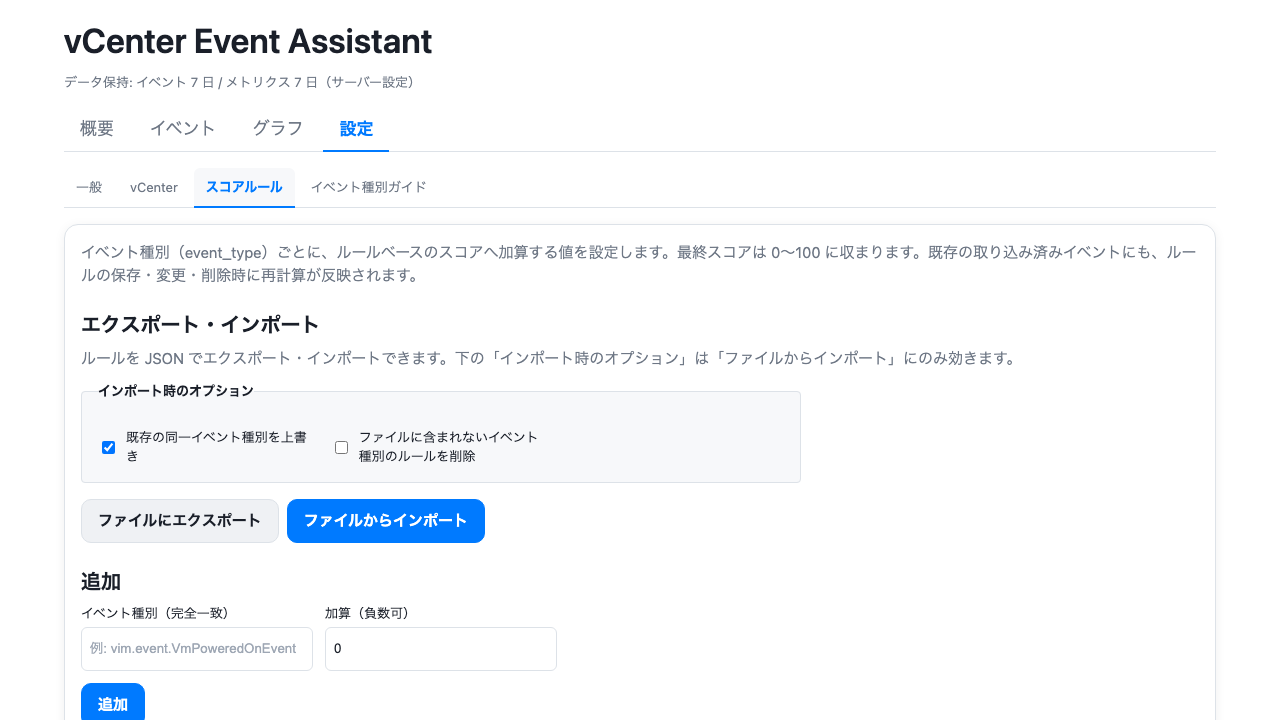
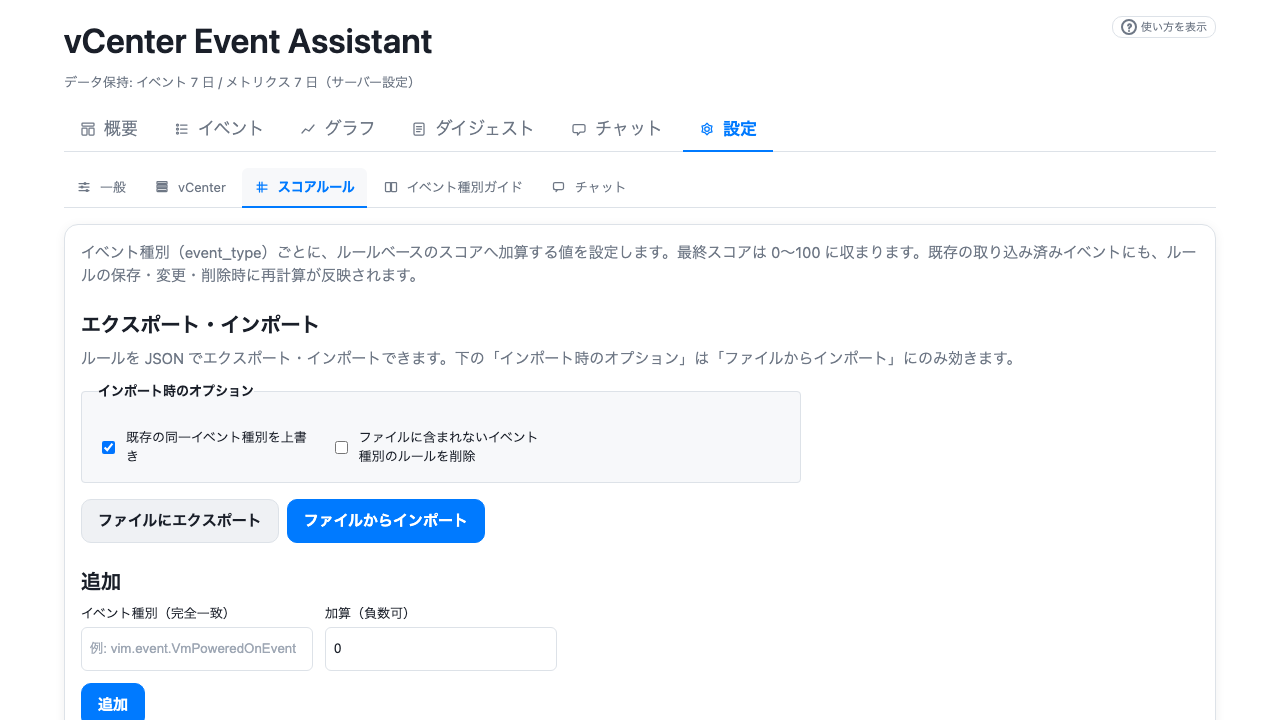
docs: update frontend documentation and refresh project screenshots

diff --git a/frontend/e2e/screenshots.spec.ts b/frontend/e2e/screenshots.spec.ts
@@ -117,4 +117,45 @@ test('主要画面のスクリーンショットを docs/images に保存', asyn
     path: path.join(screenshotOutputDir, 'settings-event-type-guides-list.png'),
     fullPage: false,
   })
+
+  // チャット画面（ダミー履歴を注入）
+  await page.evaluate(() => {
+    const key = 'vea.chat_panel.v1'
+    const dummyData = {
+      messages: [
+        {
+          role: 'user',
+          content: '最近のイベントの傾向を教えてください。',
+          created_at: new Date(Date.now() - 3600000).toISOString(),
+        },
+        {
+          role: 'assistant',
+          content:
+            '過去24時間で、`vim.event.ScreenshotDemoEvent` が 10 件発生しています。主な原因はシステムのメンテナンスによる一時的な負荷上昇です。詳細は「イベント」タブでフィルタリングして確認することをお勧めします。',
+          created_at: new Date(Date.now() - 3590000).toISOString(),
+          latency_ms: 1200,
+          token_per_sec: 45.5,
+        },
+      ],
+      rangeParts: {
+        fromDate: '2026-04-12',
+        fromTime: '07:00',
+        toDate: '2026-04-13',
+        toTime: '07:00',
+      },
+      vcenterId: '',
+      includePeriodMetricsCpu: true,
+      includePeriodMetricsMemory: false,
+      includePeriodMetricsDiskIo: false,
+      includePeriodMetricsNetworkIo: false,
+      draft: '',
+    }
+    localStorage.setItem(key, JSON.stringify(dummyData))
+  })
+  await page.locator('nav.tabs').getByRole('button', { name: 'チャット' }).click()
+  await expect(page.getByText('最近のイベントの傾向を教えてください。')).toBeVisible()
+  await page.screenshot({
+    path: path.join(screenshotOutputDir, 'chat.png'),
+    fullPage: false,
+  })
 })

diff --git a/docs/frontend.md b/docs/frontend.md
@@ -30,6 +30,12 @@
 
 サーバーが生成した日次などのダイジェストを一覧し、本文（表・LLM 要約を含む Markdown）を表示します。LLM 要約が記録されていない場合は `## LLM 要約` ブロックは表示しません。
 
+### チャット
+
+収集済みのイベントやホストメトリクスをコンテキストとして、LLM に質問できます。
+
+![チャットタブ](images/chat.png)
+
 ### 設定（一般）
 
 テーマ（ライト / ダーク / システム）や、日時表示に使うタイムゾーンをブラウザに保存します。
@@ -41,6 +47,18 @@
 イベント種別ごとの意味・想定原因・対処を登録・編集し、JSON のエクスポート／インポートも行えます。。
 
 ![設定のイベント種別ガイド](images/settings-event-type-guides-list.png)
+
+### 設定（vCenter）
+
+vCenter の接続情報を登録・編集・管理します。
+
+![設定の vCenter タブ](images/settings-vcenters.png)
+
+### 設定（スコアルール）
+
+イベント種別ごとのスコア加算値を設定します。
+
+![設定のスコアルール](images/settings-score-rules.png)
 
 ### その他の画面・キャプチャの更新
 
